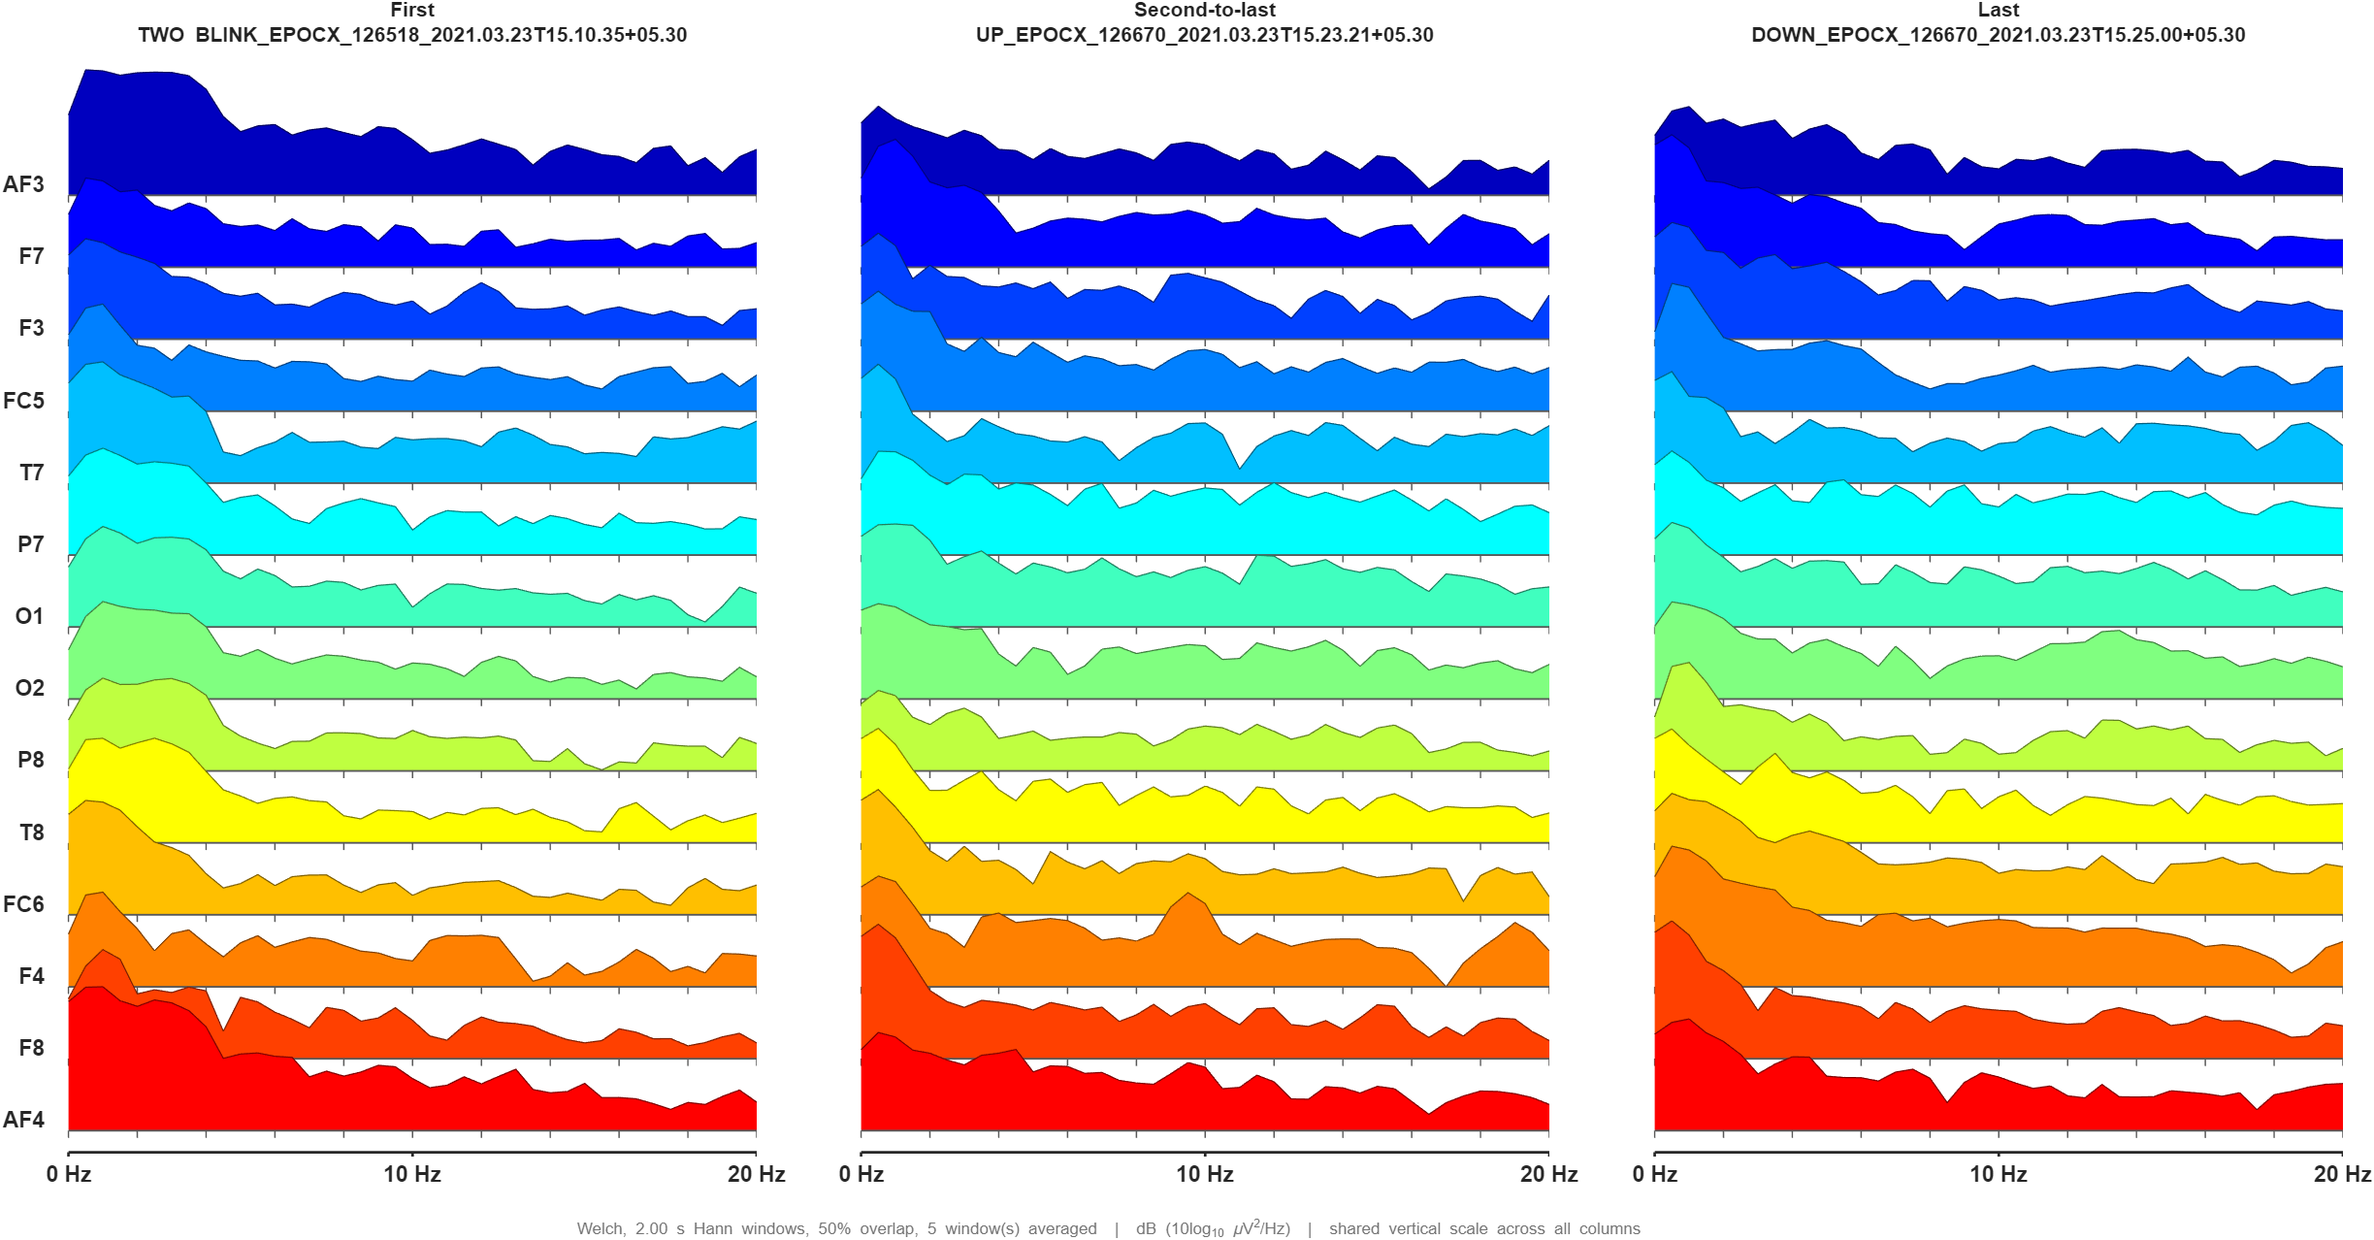
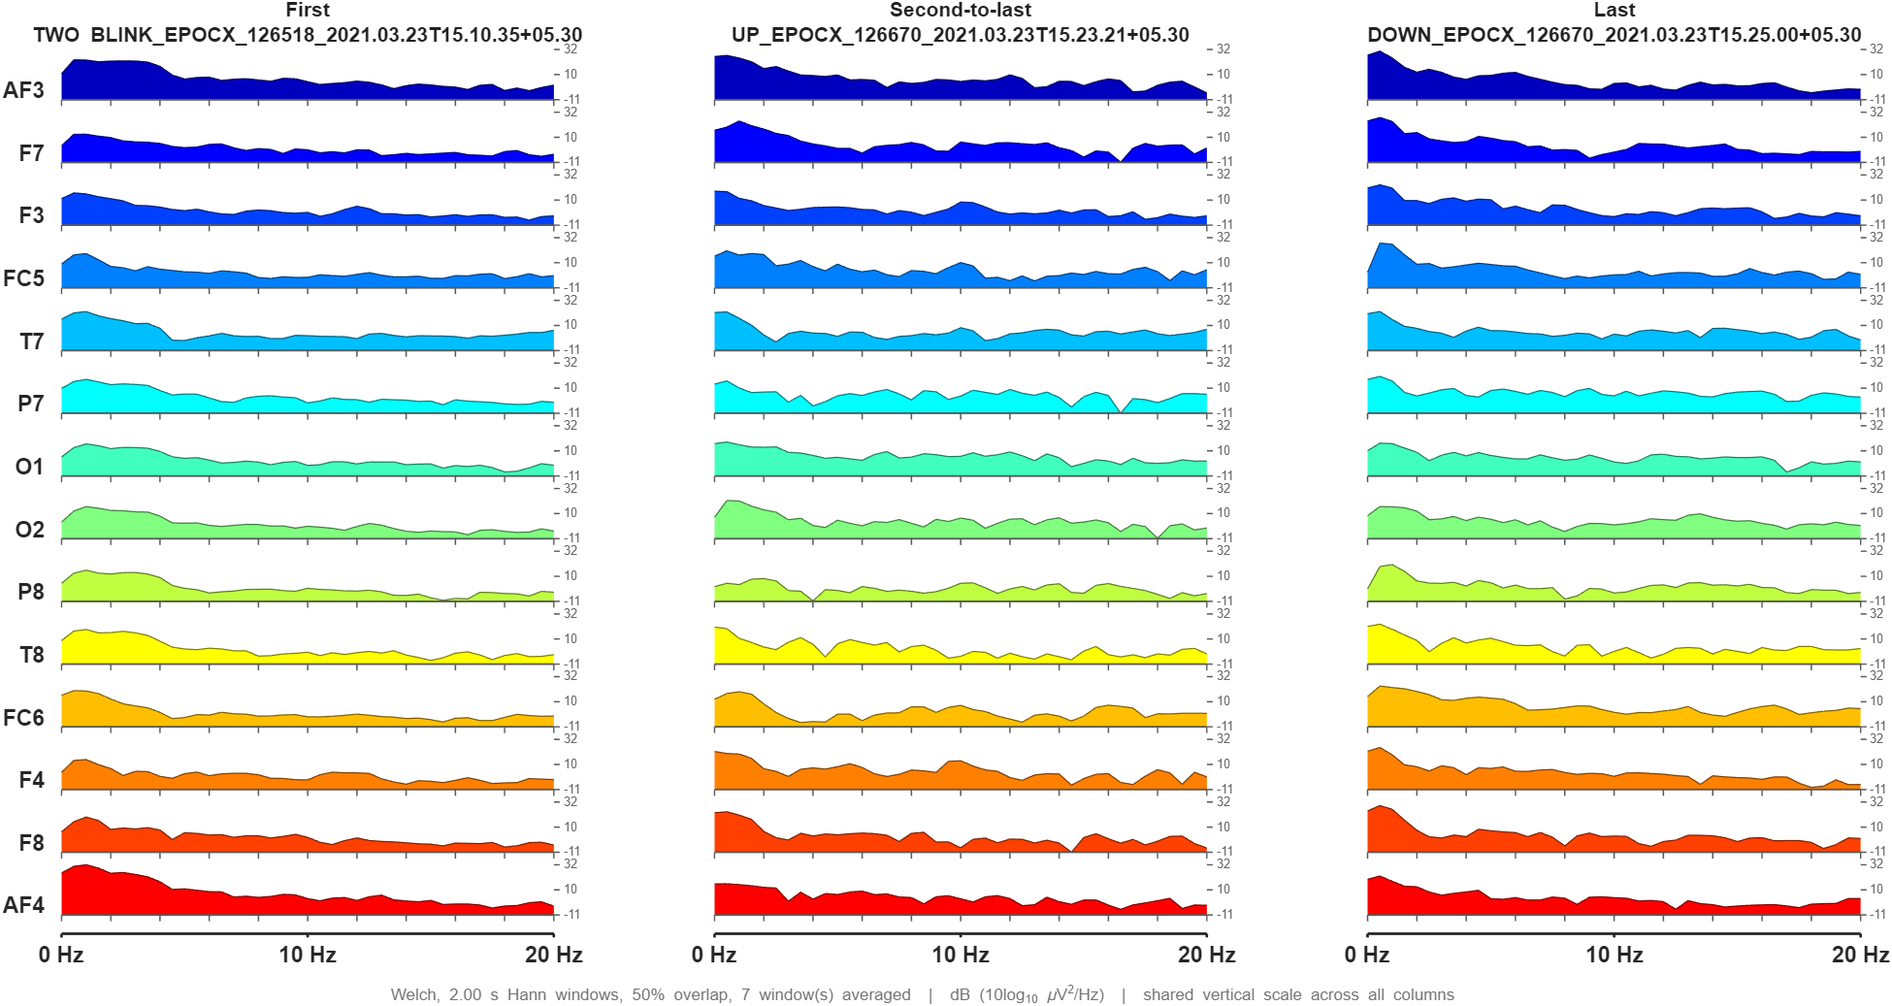
Update docs and example figures for multi-dataset + adaptive-threshold work
README.md and WHERE_EVERYTHING_IS.md were still describing the pipeline
as it was before this session's changes: a flat data/raw/ folder,
EDF/BDF/CSV only, and fixed cleaning thresholds. Updated both for:

- Per-dataset subfolders under data/raw/ (select_dataset.m,
  'Dataset' parameter, import_dataset_zip.m) and why that separation
  matters for the comparison figure
- .dat format support and why its importer requires explicit sample
  rate/channel order rather than reading either from the file
- Adaptive cleaning thresholds replacing the old fixed values, and the
  cross-dataset measurement that caught the first guardrail set being
  too narrow
- The fixed strip-overlap bug and per-row amplitude scale in the PSD
  plots
- The notch filter's redundant-skip-under-default-lowpass gotcha,
  confirmed harmless via an isolated test
- New source files (select_dataset.m, import_dataset_zip.m,
  import_matrix_dat.m, fit_figure_to_screen.m) added to both file
  tables
- Adversarial fixture options in make_test_fixture.m, with examples

Also regenerated both example figures in docs/examples/ -- they
predated the strip-overlap fix, so they were actively showing a bug
already fixed elsewhere in this repo as if it were current behaviour.

Rebuilt "0 - SETUP GUIDE.pdf" (reportlab, matching the original's
layout) with Step 3 updated for dataset subfolders, .dat support and
import_dataset_zip.m, plus a note that thresholds are adaptive by
[…]

diff --git a/README.md b/README.md
@@ -37,7 +37,7 @@ installation, shares the session so Claude can connect, and prints a menu.
 Already have MATLAB open? Open `START_HERE.m` and press the green **Run** button
 instead — it does the same thing.
 
-Then process everything in `data/raw`:
+Then process everything:
 
 ```matlab
 results = run_pipeline();
@@ -45,6 +45,11 @@ results = run_pipeline();
 
 That is the whole thing. It imports every recording, cleans it, saves the cleaned
 version, computes the spectra, and writes a comparison figure.
+
+**Multiple datasets?** Each one gets its own subfolder under `data/raw/` (e.g.
+`data/raw/Harvard/`, `data/raw/Zenodo/`) — see [Working with multiple
+datasets](#working-with-multiple-datasets) below. `run_pipeline()` with no
+arguments always processes whichever subfolder was extracted most recently.
 
 New to the folder? Read `WHERE_EVERYTHING_IS.md` first — it is a one-page map
 with no technical detail in it.
@@ -64,8 +69,13 @@ results = run_pipeline('Movement', "DOWN");
 results = run_pipeline('Limit', 3, 'PlotEach', true);
 
 % Use a 50 Hz notch instead of the 60 Hz default
+% (also needs the low-pass raised above 50 Hz, or it is skipped as redundant
+% -- see "Things worth knowing about this dataset" for why)
 P = pipeline_config('doNotch', true, 'notchFreq', 50);
 results = run_pipeline('Config', P);
+
+% A specific dataset subfolder, instead of the most recently extracted one
+results = run_pipeline('Dataset', 'Harvard');
 ```
 
 ---
@@ -74,7 +84,7 @@ results = run_pipeline('Config', P);
 
 | Folder | Contents |
 |---|---|
-| `data/raw/` | Your recordings (`.edf`, `.bdf` or `.csv`), exactly as exported. **Never modified.** |
+| `data/raw/<dataset>/` | Your recordings (`.edf`, `.bdf`, `.csv` or `.dat`), one subfolder per dataset, exactly as exported. **Never modified.** |
 | `data/processed/` | Cleaned data, one `.set` file per recording |
 | `figures/` | Spectrum plots and the comparison figure |
 | `results/` | `qc_summary.csv` plus the numeric spectra |
@@ -97,17 +107,22 @@ Read in this order if you want to follow it through:
 | `setup_paths.m` | Finds EEGLAB, creates folders, returns all paths. Run first. |
 | `check_env.m` | Confirms required toolboxes and plugins are installed |
 | `pipeline_config.m` | **Every setting lives here.** All thresholds, all on/off switches |
+| `select_dataset.m` | Picks which `data/raw/<name>/` subfolder to process — latest by default |
+| `import_dataset_zip.m` | Extracts a downloaded dataset zip into its own `data/raw/` subfolder |
 | `parse_recording_name.m` | Reads participant, condition and time out of a filename |
-| `import_recording.m` | **Entry point for loading.** Routes EDF/BDF to `pop_biosig`, CSV to the Emotiv reader |
+| `import_recording.m` | **Entry point for loading.** Routes EDF/BDF to `pop_biosig`, CSV to the Emotiv reader, DAT to the headerless-matrix reader |
 | `import_emotiv_csv.m` | Emotiv CSV → EEGLAB dataset, refusing to guess anything |
+| `import_matrix_dat.m` | Headerless numeric-matrix files → EEGLAB dataset. Sample rate and channel order must be supplied explicitly, since this format cannot self-report either |
 | `test_edf_roundtrip.m` | Proves the EDF path attaches the right data to the right channel name |
 | `preprocess_recording.m` | The 8 cleaning stages |
 | `compute_psd.m` | Turns cleaned data into a power spectrum |
+| `draw_psd_strips.m` | Draws one recording's stacked strips — shared by the two functions below so they can never visually drift apart |
 | `plot_psd_stack.m` | Draws one recording |
 | `compare_recordings.m` | Draws several side by side |
+| `fit_figure_to_screen.m` | Sizes and centers a figure so its title bar always stays reachable, on whatever screen it opens on |
 | `pick_three.m` | Chooses first / second-to-last / last |
 | `run_pipeline.m` | Runs all of the above over every file |
-| `make_test_fixture.m` | Builds fake data with a known answer, for testing |
+| `make_test_fixture.m` | Builds fake data with a known answer, for testing — including deliberately hostile data (see [Testing without real data](#testing-without-real-data)) |
 
 ### The 8 cleaning stages
 
@@ -123,13 +138,35 @@ Read in this order if you want to follow it through:
 Every stage can be switched off in `pipeline_config.m`. Nothing is hard-coded into
 the pipeline body.
 
+### Thresholds are adaptive, not fixed
+
+`badSegAbsUV`, `badChanCorr` and `epochRejUV` default to `[]`, which means each is
+recomputed **per recording**, from that recording's own robust statistics (median +
+K robust-sigmas, clamped to a floor/ceiling), rather than one fixed number applied to
+every file. This matters because a fixed threshold tuned on one dataset does not
+travel: it was tuned on one 6-recording sample from the original client dataset, and
+running it against a second, independent dataset (Zenodo's 14-channel EPOC set)
+showed the correlation threshold pinned at its ceiling for 63% of recordings — i.e.
+"adaptive" had quietly become a fixed number again. The floor/ceiling guardrails
+have since been re-measured across both datasets combined (115 recordings). Full
+reasoning and the actual numbers are in the comments above each threshold in
+`pipeline_config.m`.
+
+Set any of the three to a specific number instead of `[]` to force the old
+fixed-threshold behaviour, e.g. for a validated clinical protocol that mandates one
+exact cutoff.
+
 ---
 
 ## Reading the spectrum plots
 
 Channels are stacked vertically, front of the head at the top. Left to right is
 frequency, 0–20 Hz. The height of each coloured band is how much power that channel
-carries at that frequency.
+carries at that frequency. Every strip has its own small amplitude scale on the
+right (three ticks: floor, mid, peak of the shared dB scale) and a spacing wide
+enough that a strip's tallest possible peak can never overlap the strip above it —
+this is not cosmetic, an earlier version's spacing formula let strips overlap by up
+to 2x on real data.
 
 A bump around 8–12 Hz at the back of the head (O1, O2, P7, P8) is **alpha rhythm** —
 normal, and stronger with eyes closed.
@@ -137,6 +174,33 @@ normal, and stronger with eyes closed.
 The comparison figure puts three recordings side by side on **one shared scale**, so
 a column that looks lower really does have less power. If each were scaled to its
 own maximum, that difference would vanish.
+
+---
+
+## Working with multiple datasets
+
+Each dataset lives in its own subfolder under `data/raw/`, e.g.:
+
+```
+data/raw/Harvard/...
+data/raw/Zenodo/...
+```
+
+This matters because `run_pipeline()` sorts every recording it finds by timestamp
+and treats "first" and "last" as meaningful for the comparison figure — two
+unrelated datasets dropped loose into one folder would get compared against each
+other by coincidence of file timestamp, which answers no real question.
+
+- **`run_pipeline()`** with no `'Dataset'` argument processes whichever subfolder
+  was extracted **most recently** — no need to tell it which one.
+- **`run_pipeline('Dataset', 'Harvard')`** processes a specific one by name.
+- **`import_dataset_zip('C:\path\to\download.zip')`** extracts a downloaded zip into
+  its own correctly-named `data/raw/` subfolder in one step — the only manual part
+  of an otherwise hands-off workflow. It refuses to overwrite an existing dataset
+  folder rather than risk mixing an old extraction with a new one.
+
+Nothing here runs automatically or watches the filesystem — every step happens
+because you called it.
 
 ---
 
@@ -152,29 +216,46 @@ can honestly do:
   convincing and mean nothing. Only the 74-second recording qualified.
 - **ASR is skipped for the same reason** — it needs a clean reference section
   within the recording, and there isn't one in 9 seconds.
-- **The notch filter is off by default.** At 128 Hz the highest measurable
-  frequency is 64 Hz, and the 45 Hz low-pass has already removed everything near
-  60 Hz. Turn it on if you record at 256 Hz.
+- **The notch filter is off by default, and enabling it alone is not enough.**
+  Under the default 45 Hz low-pass, a 60 Hz notch always gets skipped as redundant
+  (the low-pass has already removed it) even with `doNotch` set to `true` — you
+  also need to raise `lowpassHz` above the notch frequency, or run at 256 Hz. The
+  filter itself is correct where reachable: confirmed by an isolated test showing
+  >99.99% reduction in 60 Hz power once the redundant-skip no longer applies.
 - **2 of 54 recordings are flagged unusable** — too noisy to survive epoch
   rejection. They are reported, not silently dropped.
 
-None of this is a fault in the code. It is what short recordings allow. Longer
+None of the above is a fault in the code. It is what short recordings allow. Longer
 recordings — 60 seconds or more — would let ICA and ASR run, and those are the two
-stages that do the heavy lifting on blink and muscle artifacts.
+stages that do the heavy lifting on blink and muscle artifacts. Confirmed directly:
+a 60-second synthetic recording built specifically to be long enough triggered ICA +
+ICLabel successfully, the first time either had run end-to-end in this project.
+
+**Cross-checked against a second, independent dataset** (Zenodo's 14-channel EPOC
+set, 64 recordings, different subjects, different noise profile, different file
+format entirely) — see the "Working with multiple datasets" section above for how
+that's kept separate from Harvard. All 64 processed successfully. The exercise is
+also what caught the adaptive-threshold ceiling problem described above: numbers
+tuned on one dataset do not automatically generalise, and the only way to find that
+out is to run a second, genuinely different dataset through and look at what the
+thresholds actually compute.
 
 ---
 
 ## Input formats
 
-Drop `.edf`, `.bdf` or `.csv` files into `data/raw/` — `run_pipeline()` picks up all
-three and routes each to the right reader. EDF/BDF go through `pop_biosig`; CSV goes
-through the EmotivPRO reader.
+Drop `.edf`, `.bdf`, `.csv` or `.dat` files into a dataset subfolder under
+`data/raw/` — `run_pipeline()` picks up all four and routes each to the right
+reader. EDF/BDF go through `pop_biosig`; CSV goes through the EmotivPRO reader; DAT
+(a headerless numeric matrix, no metadata at all) goes through a reader that
+requires the sample rate and channel order to be supplied explicitly, since the
+format cannot report either itself.
 
-**Channels are matched by name, never by position.** An EDF that stores its channels
-in a different order, or labels them `EEG AF3` instead of `AF3`, is reordered into
-the correct EPOC X montage on import. This is not cosmetic: taking channels 1–14
-positionally would produce a scrambled montage that runs without error and makes
-every figure wrong. To verify it on your machine:
+**Channels are matched by name, never by position**, wherever the format allows it.
+An EDF that stores its channels in a different order, or labels them `EEG AF3`
+instead of `AF3`, is reordered into the correct EPOC X montage on import. This is
+not cosmetic: taking channels 1–14 positionally would produce a scrambled montage
+that runs without error and makes every figure wrong. To verify it on your machine:
 
 ```matlab
 test_edf_roundtrip(cfg);
@@ -182,6 +263,15 @@ test_edf_roundtrip(cfg);
 
 That writes an EDF with deliberately shuffled channels, reads it back, and checks
 the right signal ends up under the right name.
+
+**DAT files are the exception, and it is a real limitation, not a technicality.**
+A bare grid of numbers cannot say which column is which electrode. Passing the
+wrong `ChannelOrder` would silently repeat exactly the mislabelling bug the EDF path
+above was rewritten to prevent — so `import_matrix_dat.m` refuses to guess and
+requires it explicitly, and stamps whatever was passed into `meta.channelOrderSource`
+verbatim (e.g. `"ASSUMED: canonical EPOC X order, not documented by source dataset"`)
+rather than presenting it as fact. If you don't have documented channel order for a
+`.dat` source, treat any per-channel finding from it as provisional.
 
 ---
 
@@ -201,6 +291,34 @@ If the peak does not land at 10 Hz, something is wrong with the analysis rather
 than with the data. Delete the file from `data/raw/` afterwards — it is not a
 recording.
 
+### Adversarial stress-testing
+
+The same generator can build deliberately hostile recordings, for testing the
+pipeline's failure paths rather than its happy path:
+
+```matlab
+% Several simultaneously dead channels -- tests the "refuse to interpolate,
+% too many channels missing" guardrail
+make_test_fixture(cfg, 'BadChannel', [2 5 8 11]);
+
+% Severe broadband artifact bursts on every channel, not just the usual
+% frontal blinks -- tests ASR/bad-segment behaviour under real duress
+make_test_fixture(cfg, 'ExtremeNoiseAmp', 500);
+
+% Corrupted (NaN) samples -- tests the importer's non-finite handling
+make_test_fixture(cfg, 'InjectNaNFrac', 0.02);
+
+% Long and clean enough to actually trigger ICA (most real recordings in
+% this project are too short for ICA to ever run)
+make_test_fixture(cfg, 'DurationSec', 60, 'BadChannel', 0);
+```
+
+Put a batch of these in their own `data/raw/<name>/` subfolder (see [Working with
+multiple datasets](#working-with-multiple-datasets)) to run a full adversarial
+sweep through `run_pipeline()`. As with the basic fixture, these are synthetic —
+delete the subfolder afterwards rather than leaving it alongside real recordings.
+`Tag` keeps multiple fixtures in one folder from colliding on filename.
+
 ---
 
 ## If something goes wrong
@@ -213,6 +331,14 @@ missing. Download link is in `docs/SETUP.md`.
 **"Could not determine the sampling rate"** — the file has no readable header. Pass
 it explicitly, but only if you know it for certain:
 `import_emotiv_csv(file, cfg, 'SampleRate', 128)`.
+
+**"No dataset subfolders found in data/raw"** — recordings need to sit inside a
+named subfolder, e.g. `data/raw/Harvard/...`, not loose in `data/raw/` directly.
+See [Working with multiple datasets](#working-with-multiple-datasets).
+
+**"This file format carries no sample rate/channel names of its own"** — a `.dat`
+file needs both passed explicitly via `'ImportOptions'` on `run_pipeline()` (or
+directly to `import_matrix_dat.m`), since the format has no header at all.
 
 **A recording fails** — the batch continues and reports which one and why at the
 end. One bad file never stops the run.

diff --git a/WHERE_EVERYTHING_IS.md b/WHERE_EVERYTHING_IS.md
@@ -28,7 +28,9 @@ EEG/
 ├── 2 - Claude Code.bat    ← then this, if you want Claude Code
 │
 ├── data/
-│   ├── raw/               ← PUT NEW RECORDINGS HERE (.edf, .bdf or .csv)
+│   ├── raw/               ← PUT NEW RECORDINGS HERE, one subfolder per dataset
+│   │   ├── Harvard/       ←   e.g. data/raw/Harvard/... (.edf, .bdf, .csv or .dat)
+│   │   └── Zenodo/        ←   a second dataset never mixes with the first
 │   └── processed/         ← cleaned recordings appear here automatically
 │
 ├── figures/               ← all the plots appear here
@@ -58,7 +60,7 @@ else can be ignored until you want it.
 |---|---|
 | See the plots | `figures/` |
 | See what the pipeline decided for each recording | `results/qc_summary.csv` |
-| Add new recordings | `data/raw/` |
+| Add new recordings | `data/raw/<a folder named for the dataset>/` |
 
 ---
 
@@ -99,23 +101,27 @@ ever want to.
 | 1 | `setup_paths.m` | Finds EEGLAB, creates folders |
 | 2 | `check_env.m` | Confirms everything is installed |
 | 3 | `pipeline_config.m` | **Every setting and threshold lives here** |
-| 4 | `parse_recording_name.m` | Works out who, what and when from the filename |
-| 5 | `import_recording.m` | Loads the file, sending EDF/BDF and CSV to the right reader |
-| 6 | `import_emotiv_csv.m` | Reads Emotiv CSV exports |
-| 7 | `preprocess_recording.m` | The 8 cleaning stages |
-| 8 | `compute_psd.m` | Works out the power spectrum |
-| 9 | `draw_psd_strips.m` | Draws the coloured bands |
-| 10 | `plot_psd_stack.m` | One recording, one page |
-| 11 | `pick_three.m` | Chooses first / second-to-last / last |
-| 12 | `compare_recordings.m` | Three recordings side by side |
-| 13 | `run_pipeline.m` | **Runs all of the above over every file** |
+| 4 | `select_dataset.m` | Picks which dataset subfolder to process — latest one by default |
+| 5 | `parse_recording_name.m` | Works out who, what and when from the filename |
+| 6 | `import_recording.m` | Loads the file, sending EDF/BDF, CSV and DAT to the right reader |
+| 7 | `import_emotiv_csv.m` | Reads Emotiv CSV exports |
+| 8 | `import_matrix_dat.m` | Reads headerless numeric-matrix files (needs sample rate + channel order given explicitly) |
+| 9 | `preprocess_recording.m` | The 8 cleaning stages |
+| 10 | `compute_psd.m` | Works out the power spectrum |
+| 11 | `draw_psd_strips.m` | Draws the coloured bands |
+| 12 | `plot_psd_stack.m` | One recording, one page |
+| 13 | `fit_figure_to_screen.m` | Keeps the plot window's title bar on-screen, whatever monitor it opens on |
+| 14 | `pick_three.m` | Chooses first / second-to-last / last |
+| 15 | `compare_recordings.m` | Three recordings side by side |
+| 16 | `run_pipeline.m` | **Runs all of the above over every file** |
 
-Four extras, not part of the main run:
+Five extras, not part of the main run:
 
 | File | What it does |
 |---|---|
 | `qc_report.m` | Detailed per-channel statistics for one recording |
-| `make_test_fixture.m` | Makes fake data with a known answer, to check the maths |
+| `make_test_fixture.m` | Makes fake data with a known answer, to check the maths — including deliberately hostile data for stress-testing |
+| `import_dataset_zip.m` | Extracts a downloaded dataset zip into its own `data/raw/` subfolder in one step |
 | `test_edf_roundtrip.m` | Checks the EDF reader puts the right signal under the right channel name |
 | `get_sample_data.m` | Where to download public sample recordings |
 | `sync_to_github.m` | Saves your changes to GitHub in one line |
